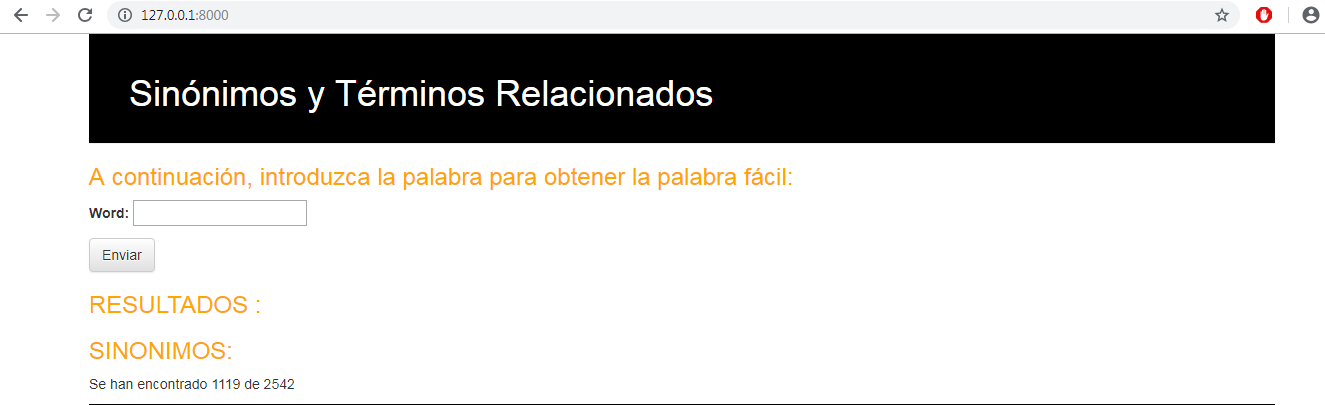
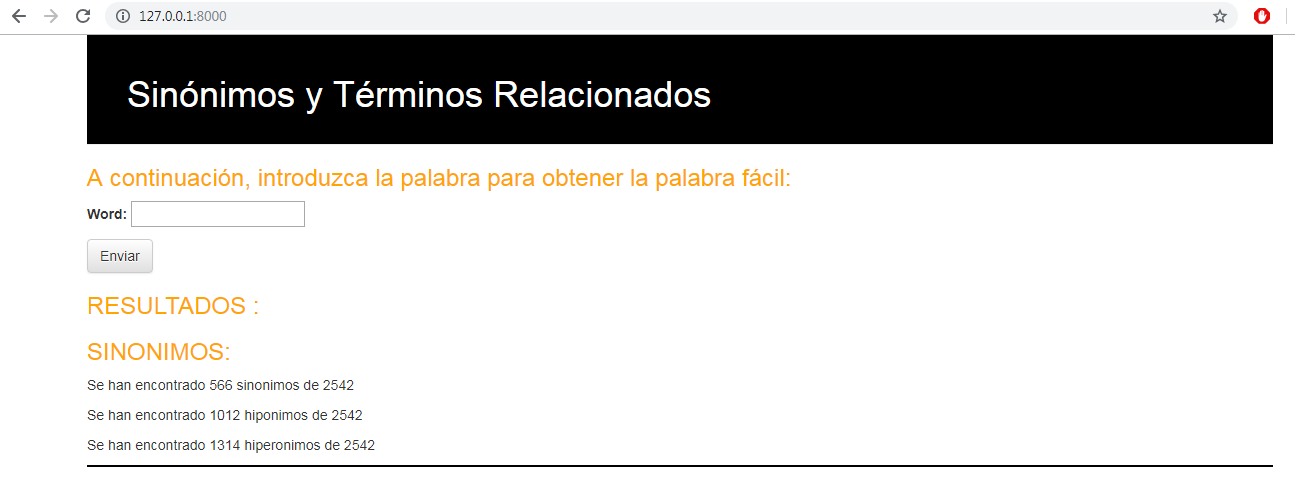
Separada la prueba por tipo de palabra y  mejora de la busqueda y obtencion de palabras de la RAE

Changed region(s): [[0.0, 0.0, 1.0, 0.3852], [0.0618, 0.4148, 0.9884, 1.0]]

diff --git a/PruebaPrototipo/prototipo/templates/prototipo/formulario.html b/PruebaPrototipo/prototipo/templates/prototipo/formulario.html
@@ -15,7 +15,9 @@
         <h3>RESULTADOS :</h3>
             <h3>SINONIMOS:</h3>
 
-        <p>Se han encontrado {{ contador }} de {{ totales }}</p>
+        <p>Se han encontrado {{ contadorSinonimos }} sinonimos de {{ totales }}</p>
+        <p>Se han encontrado {{ contadorHiponimos }} hiponimos de {{ totales }}</p>
+        <p>Se han encontrado {{ contadorHiperonimos }} hiperonimos de {{ totales }}</p>
 
 
 

diff --git a/PruebaPrototipo/prototipo/views.py b/PruebaPrototipo/prototipo/views.py
@@ -32,9 +32,9 @@ def index(request):
             #resultadoSinonimos, resultadoHiponimo, resultadoHiperonimo = #busquedaDePalabras(word)
             #print('resultado' + str(resultadoHiponimo))
 
-            contador, totales = prueba()
+            contadorSinonimos, contadorHiponimos, contadorHiperonimos, totales = prueba()
 
-            return render(request, 'prototipo/formulario.html', {'form': form, 'contador': contador, 'totales': totales})
+            return render(request, 'prototipo/formulario.html', {'form': form, 'contadorSinonimos': contadorSinonimos, 'contadorHiponimos': contadorHiponimos, 'contadorHiperonimos': contadorHiperonimos,'totales': totales})
 
     return render(request, 'prototipo/formulario.html', {'form': form })
 
@@ -45,42 +45,49 @@ def prueba():
     BASE_DIR = os.path.dirname(os.path.dirname(os.path.abspath(__file__)))
     csvarchivo = open(BASE_DIR + '/prototipo/prueba.csv', encoding="utf8", errors='ignore')
     entrada = csv.reader(csvarchivo, delimiter=";")
-    contador = 0
+    contadorSinonimos = 0
+    contadorHiponimos = 0
+    contadorHiperonimos = 0
     totales = 0
-    encontrado = False
+
     for i in entrada:
 
         listaResultadoSinonimo, listaResultadoHipo, listaResultadoHiper = busquedaDePalabras(str(i[0]))
-        encontrado1RAE = False
-        encontrado2RAE = False;
-        encontrado3RAE = False;
 
         if len(listaResultadoSinonimo) > 0:
+            #print(i[0])
+            #print("SINONIMOS:")
+            #print(listaResultadoSinonimo)
+            #print("HIPONIMOS:")
+            #print(listaResultadoHipo)
+            #print("HIPERONIMOS:")
+            #print(listaResultadoHiper)
             sinonimosRAE = busquedaSinonimosEnLaRAE(listaResultadoSinonimo)
-            if len(sinonimosRAE) > 0:
-                encontrado1RAE = True
-        if len(listaResultadoHipo) > 0:
+            #print(sinonimosRAE)
+
+            contadorSinonimos = contadorSinonimos + len(sinonimosRAE)
+            #print("HIPONIMOS:")
             hiponimosRAE = busquedaHiponimosEnLaRAE(listaResultadoHipo)
-            if len(hiponimosRAE) > 0:
-                encontrado2RAE = True
-        if len(listaResultadoHiper) > 0:
+            #print(hiponimosRAE)
+
+            contadorHiponimos = contadorHiponimos + len(hiponimosRAE)
+            #print("HIPERONIMOS:")
             hiperonimosRAE = busquedaHiperonimosEnLaRAE(listaResultadoHiper)
-            if len(hiperonimosRAE) > 0:
-                encontrado3RAE = True
+            #print(hiperonimosRAE)
+
+            contadorHiperonimos = contadorHiperonimos + len(hiperonimosRAE)
 
         totales = totales + 1
 
-        print("totales: " + str(totales))
 
-        if encontrado1RAE == True:
-            contador = contador + 1
-        if encontrado2RAE == True:
-            contador = contador + 1
-        if encontrado3RAE == True:
-            contador = contador + 1
-        print("encontrados: " + str(contador))
 
-    return contador, totales
+        print("Sinonimos encontrados: " + str(contadorSinonimos) + " de " + str(totales))
+        print("Hiponimos encontrados: " + str(contadorHiponimos) + " de " + str(totales))
+        print("Hiperonimos encontrados: " + str(contadorHiperonimos) + " de " + str(totales))
+
+        #print("totales: " + str(totales))
+
+    return contadorSinonimos, contadorHiponimos, contadorHiperonimos,totales
 
 
 def busquedaDePalabras(word):
@@ -94,20 +101,30 @@ def busquedaDePalabras(word):
     #for indice in palabrasQueCoinciden.values():
         #print('palabras que coinciden' + str(indice.values()))
 
+    #DEVUELVE UN SET CON LOS SINONIMOS OBTENIDOS
     resultadoSinonimos = busquedadSinonimos(palabrasQueCoinciden)
     #print('sinonimos ' + str(len(resultadoSinonimos)))
 
-    if len(palabrasQueCoinciden) > 0:
-        resultadoHiponimo, resultadoHiperonimo = busquedadHipoHiper(palabrasQueCoinciden)
 
-    #print('hiponimos ' + str(len(resultadoHiponimo)))
-    #print('hiperonimos ' + str(len(resultadoSinonimos)))
+     # DEVUELVE DOS SET UNO CON LOS SINONIMOS OBTENIDOS Y OTRO CON LOS HIPERONIMOS
+    resultadoHiponimo, resultadoHiperonimo = busquedadHipoHiper(palabrasQueCoinciden)
 
-        return resultadoSinonimos, resultadoHiponimo, resultadoHiperonimo
-    resultado1 = list()
-    resultado2 = list()
-    resultado3 = list()
-    return resultado1, resultado2 , resultado3
+
+    #EL METODO DIFFERENCE ELIMINA LOS ELEMENTOS QUE ESTEN REPETIDOS EN DOS SET Y DEVOLVIENDOLO SIN REPETIDOS
+    resultadoSinonimos = resultadoSinonimos.difference(resultadoHiponimo)
+    resultadoSinonimos = resultadoSinonimos.difference(resultadoHiperonimo)
+
+    resultadoHiponimo = resultadoHiponimo.difference(resultadoSinonimos)
+    resultadoHiponimo = resultadoHiponimo.difference(resultadoHiperonimo)
+
+    resultadoHiperonimo = resultadoHiperonimo.difference(resultadoSinonimos)
+    resultadoHiperonimo = resultadoHiperonimo.difference(resultadoHiponimo)
+
+
+
+
+    return resultadoSinonimos, resultadoHiponimo, resultadoHiperonimo
+
 
 
 
@@ -115,23 +132,26 @@ def busquedaDePalabras(word):
 
 def busquedadSinonimos(palabrasQueCoinciden):
 
-    sinonimosPorCadaSynset = []
-    listaResultadoNombres = []
-    contador = 0
+    #set que guarda todos los sinonimos obtenidos de la palabra introducida
+    sinonimosPorCadaSynset = set()
+
+    #palabrasQueCoinciden es una lista de offset de cada una de las acepciones de la palabra buscada
 
     for indiceListaPalabras in range(len(palabrasQueCoinciden)):
+
         sinonimos = WeiSpa30Variant.objects.filter(offset=palabrasQueCoinciden[indiceListaPalabras].offset)
+
 
         for indiceLista in sinonimos.values():
             if palabrasQueCoinciden[0].word != indiceLista['word']:
-                sinonimosPorCadaSynset.append(indiceLista['word'])
+                sinonimosPorCadaSynset.add(indiceLista['word'])
 
-        insertar = sinonimosPorCadaSynset.copy()
-        listaResultadoNombres.insert(contador, insertar)
-        contador = contador + 1
-        sinonimosPorCadaSynset.clear()
+        #insertar = sinonimosPorCadaSynset.copy()
+        #listaResultadoNombres.insert(contador, insertar)
+        #contador = contador + 1
+        #sinonimosPorCadaSynset.clear()
 
-    return listaResultadoNombres
+    return sinonimosPorCadaSynset
 
 
 
@@ -164,6 +184,7 @@ def busquedadHipoHiper(palabrasQueCoinciden):
                 # print(listaOffsets.values())
 
         resultadoHiponimo = set()
+
         listaResultadoHiponimo = []
         contadorHipo = 0
 
@@ -172,13 +193,14 @@ def busquedadHipoHiper(palabrasQueCoinciden):
 
 
             for indiceLista1 in queryResultadoHipo.values():
-                resultadoHiponimo.add(indiceLista1['word'])
+                if palabrasQueCoinciden[0].word != indiceLista1['word']:
+                    resultadoHiponimo.add(indiceLista1['word'])
                 #print(resultadoHiponimo)
 
-            insertar = resultadoHiponimo.copy()
-            listaResultadoHiponimo.insert(contadorHipo, insertar)
-            contadorHipo = contadorHipo + 1
-            resultadoHiponimo.clear()
+            #insertar = resultadoHiponimo.copy()
+            #listaResultadoHiponimo.insert(contadorHipo, insertar)
+            #contadorHipo = contadorHipo + 1
+            #resultadoHiponimo.clear()
 
         #print(listaResultadoHiponimo)
 
@@ -190,37 +212,36 @@ def busquedadHipoHiper(palabrasQueCoinciden):
             queryResultadoHiper = WeiSpa30Variant.objects.filter(offset=listaOffsetsTargetFinal[i])
 
             for indiceLista2 in queryResultadoHiper.values():
-                resultadoHiperonimo.add(indiceLista2['word'])
+                if palabrasQueCoinciden[0].word != indiceLista2['word']:
+                    resultadoHiperonimo.add(indiceLista2['word'])
 
-            insertar = resultadoHiperonimo.copy()
-            listaResultadoHiperonimo.insert(contadorHiper, insertar)
-            contadorHiper = contadorHiper + 1
-            resultadoHiperonimo.clear()
+            #insertar = resultadoHiperonimo.copy()
+            #listaResultadoHiperonimo.insert(contadorHiper, insertar)
+            #contadorHiper = contadorHiper + 1
+            #resultadoHiperonimo.clear()
 
 
-        return listaResultadoHiponimo, listaResultadoHiperonimo
+        return resultadoHiponimo, resultadoHiperonimo
+    else:
+        hiponimosVacios = set()
+        hiperonimosVacios = set()
+        return hiponimosVacios, hiperonimosVacios
 
 
 def busquedaSinonimosEnLaRAE(resultadoSinonimos):
 
     archivo, csvarchivo = aperturaYlecturaCSV()
-    listaPalabras = list()
-
-
-    for fila in range(len(resultadoSinonimos)):
-        for palabra in resultadoSinonimos[fila]:
-            listaPalabras.append(palabra)
-            #print(palabra)
 
 
     resultadoListaSinonimosRAE = set()
 
 
-    for i in range(len(listaPalabras)):
+    for sinonimo in resultadoSinonimos:
+
         csvarchivo.seek(0)
         for j in archivo:
 
-            if listaPalabras[i] == j['PALABRA']:
+            if sinonimo == j['PALABRA']:
                 resultadoListaSinonimosRAE.add(j['PALABRA'])
 
 
@@ -232,22 +253,18 @@ def busquedaSinonimosEnLaRAE(resultadoSinonimos):
 
 def busquedaHiponimosEnLaRAE(resultadoHiponimo):
     archivo, csvarchivo = aperturaYlecturaCSV()
-    listaPalabras = list()
-
-    for fila in range(len(resultadoHiponimo)):
-        for palabra in resultadoHiponimo[fila]:
-            listaPalabras.append(palabra)
-            #print(palabra)
 
 
     resultadoListaHiponimosRAE = set()
 
 
-    for i in range(len(listaPalabras)):
+
+
+    for hiponimo in resultadoHiponimo:
         csvarchivo.seek(0)
         for j in archivo:
 
-            if listaPalabras[i] == j['PALABRA']:
+            if hiponimo == j['PALABRA']:
                 resultadoListaHiponimosRAE.add(j['PALABRA'])
 
 
@@ -257,20 +274,15 @@ def busquedaHiponimosEnLaRAE(resultadoHiponimo):
 
 def busquedaHiperonimosEnLaRAE(resultadoHiperonimo):
     archivo, csvarchivo = aperturaYlecturaCSV()
-    listaPalabras = list()
 
-    for fila in range(len(resultadoHiperonimo)):
-        for palabra in resultadoHiperonimo[fila]:
-            listaPalabras.append(palabra)
-            # print(palabra)
 
     resultadoListaHiperonimosRAE = set()
 
-    for i in range(len(listaPalabras)):
+    for hiperonimo in resultadoHiperonimo:
         csvarchivo.seek(0)
         for j in archivo:
 
-            if listaPalabras[i] == j['PALABRA']:
+            if hiperonimo == j['PALABRA']:
                 resultadoListaHiperonimosRAE.add(j['PALABRA'])
 
     return resultadoListaHiperonimosRAE
@@ -285,3 +297,5 @@ def aperturaYlecturaCSV():
     archivo = csv.DictReader(csvarchivo, delimiter=";")
 
     return archivo, csvarchivo
+
+
